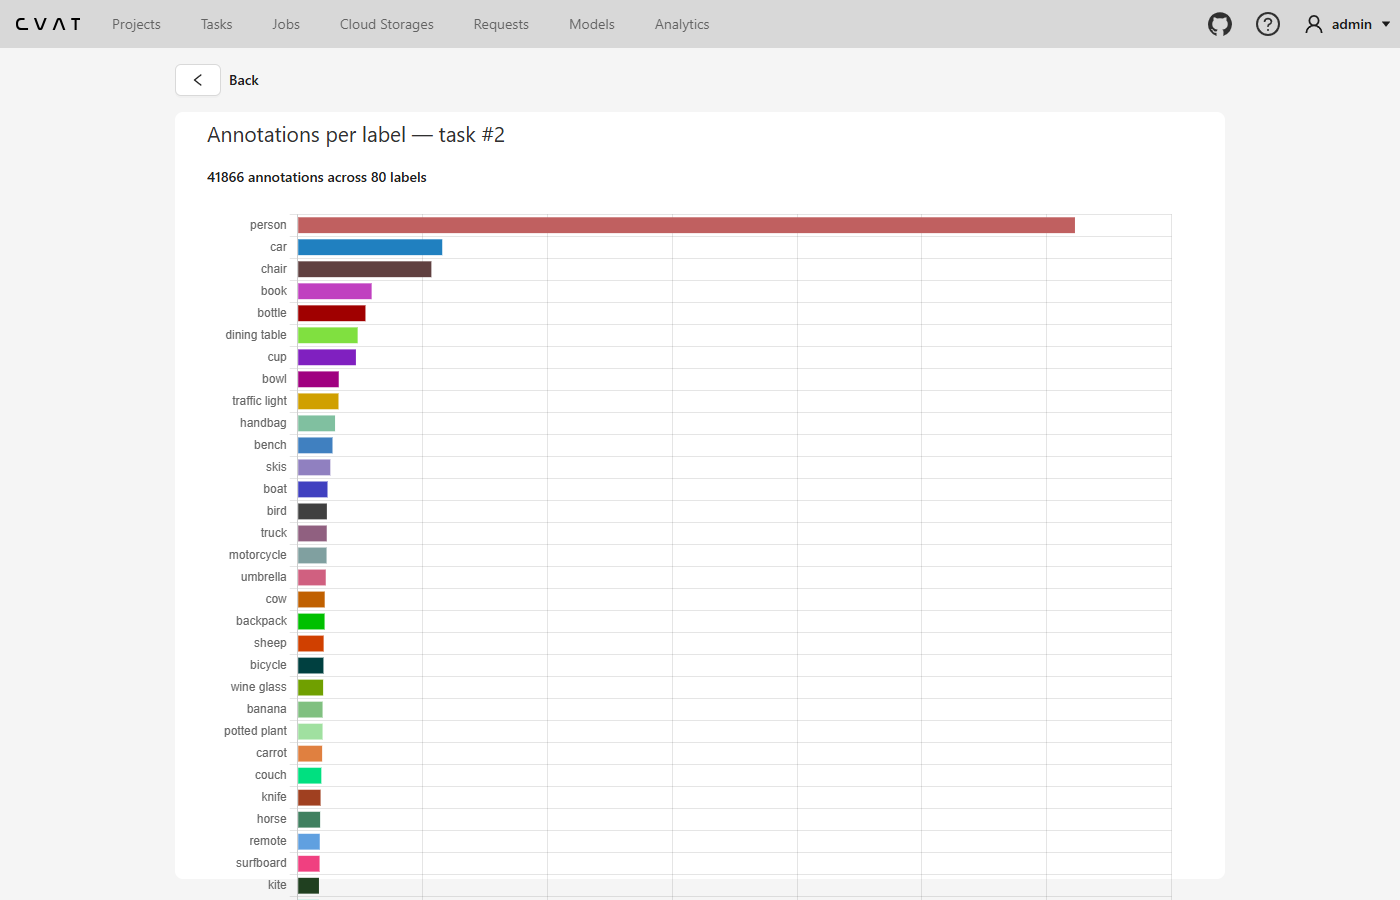
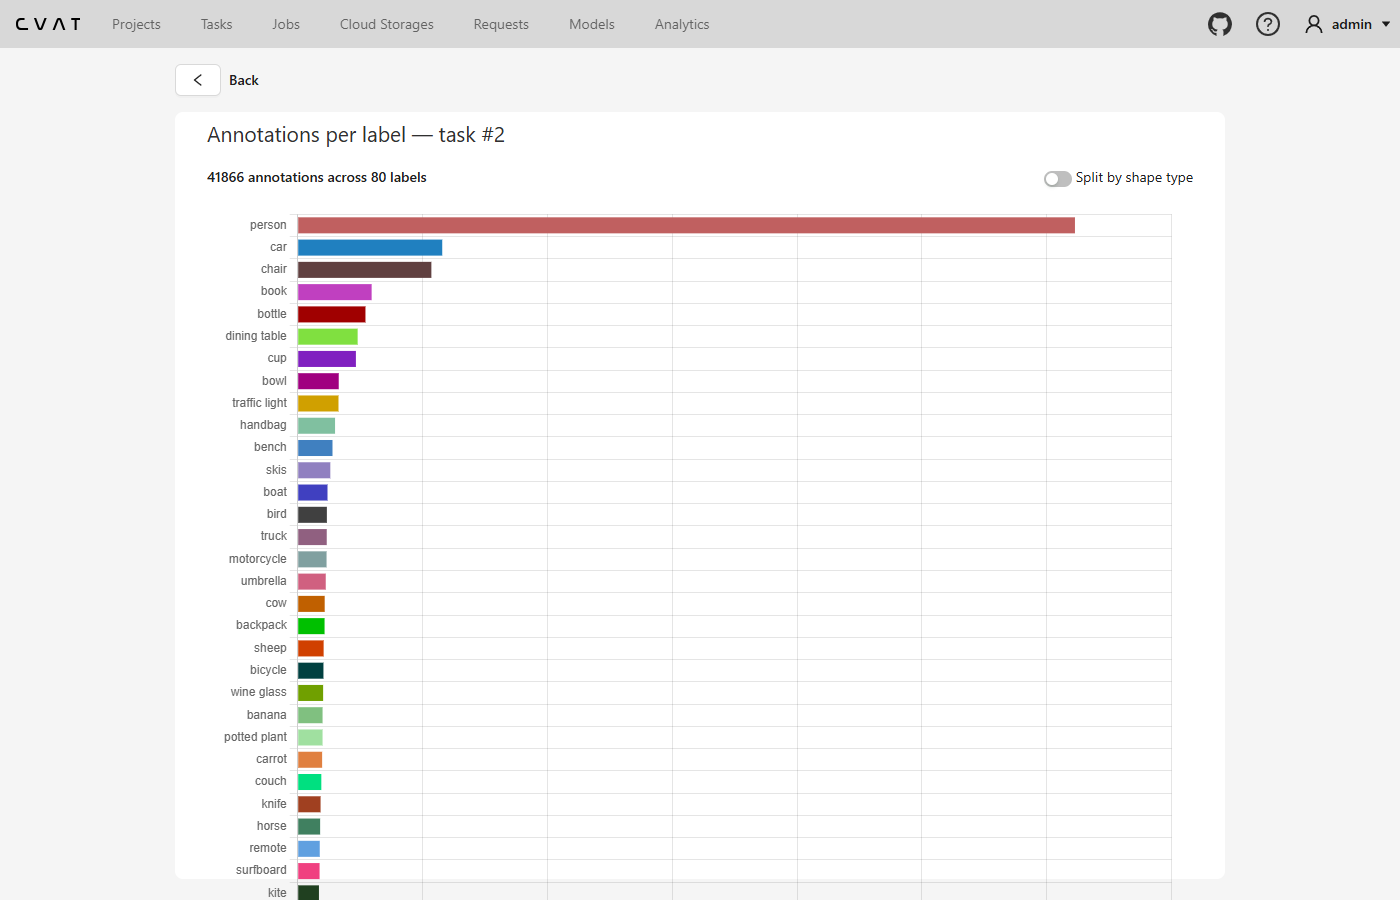
Record item 7 evidence and re-measured MO-1 after the type split
The extra GROUP BY column costs ~10 ms of query time; MO-1 median p95
moves from 105.5 to 115.5 ms and stays under the 150 ms target. The
noisy first re-run is kept next to the quiet one. DoD states why
shape type was chosen over a per-job filter or grouping by source.

Changed region(s): [[0.1536, 0.28, 0.8293, 1.0], [0.7371, 0.1867, 0.86, 0.2178]]

diff --git a/docs/OBJECTIVES.md b/docs/OBJECTIVES.md
@@ -57,3 +57,18 @@ What this tells me:
 - **Where it would break:** the query scales with the shape count of one task. At ~40k shapes it takes 23 ms, so a
   task around 10× larger (~400k shapes) would put the query near the whole budget. That is the point where a
   precomputed count (updated on the same `touch()` signal as item 8) would pay for itself.
+
+### Re-measured after item 7 (split by shape type) — still met
+
+Grouping by `(label_id, type)` instead of `label_id` is the only change to the query.
+
+| | Before item 7 | After item 7 |
+|---|---|---|
+| MO-1 median p95 (spread) | 105.5 ms (91.6–113.8) | **115.5 ms (106.8–120.4)** |
+| SQL aggregation alone | 23.4 ms | 33.5 ms |
+
+Raw: [mo1_after_by_type_rerun.txt](bench/results/mo1_after_by_type_rerun.txt),
+[mo1_breakdown_after_by_type.txt](bench/results/mo1_breakdown_after_by_type.txt).
+The grouping costs ~10 ms of query time. A first run straight after a browser test gave 117.8 ms with one run at
+161 ms ([mo1_after_by_type.txt](bench/results/mo1_after_by_type.txt)); the server-side split showed the query had only
+moved 10 ms, so I re-ran on a quiet machine. Both runs are kept.

diff --git a/docs/DEFINITION_OF_DONE.md b/docs/DEFINITION_OF_DONE.md
@@ -34,7 +34,13 @@ All in [access.txt](bench/results/access.txt), raw `curl -i` against the running
 
 ## Beyond the floor (items 7–10)
 
-- [ ] Grouping by shape type works and the reason for choosing it is written.
+- [x] Grouping by shape type works and the reason for choosing it is written.
+  Totals per type equal the DB (41,420 polygon + 446 mask), per-label types sum to the label count;
+  [page-split.png](evidence/page-split.png). **Why this one:** in COCO the type separates segmentation polygons from
+  `iscrowd` regions (446 masks, 227 of them "person"), which are usually excluded when training, so a class's
+  usable count is not its raw count. Rejected: a per-job filter (more useful to a manager, but every COCO job looks
+  alike) and grouping by `source` (all 41,866 are "file" after import, so it would show nothing). Cost: +10 ms query
+  time, MO-1 still met (115.5 ms).
 - [ ] Drawing/deleting a box in a job updates the open stats page without reload.
 - [ ] Killing the connection (server restart) → page shows "reconnecting", then recovers and refreshes counts.
 - [ ] Decision record in `docs/PLAN.md`.
